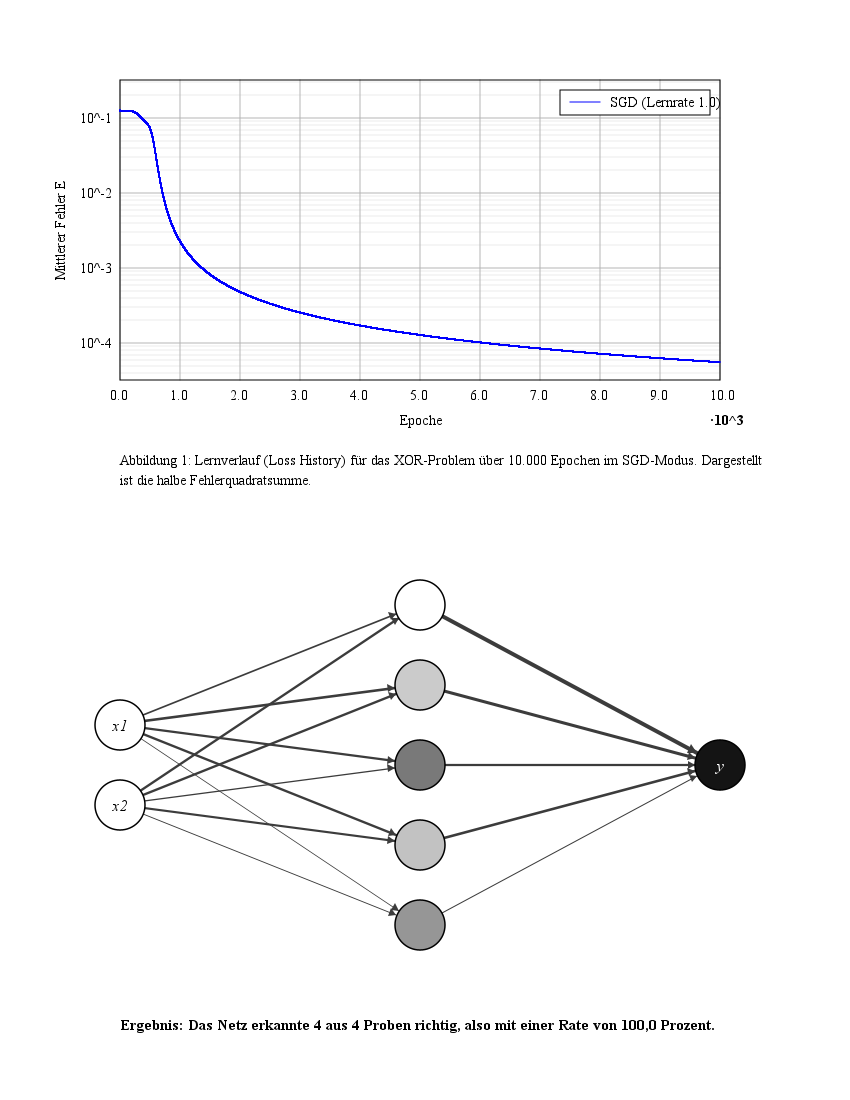
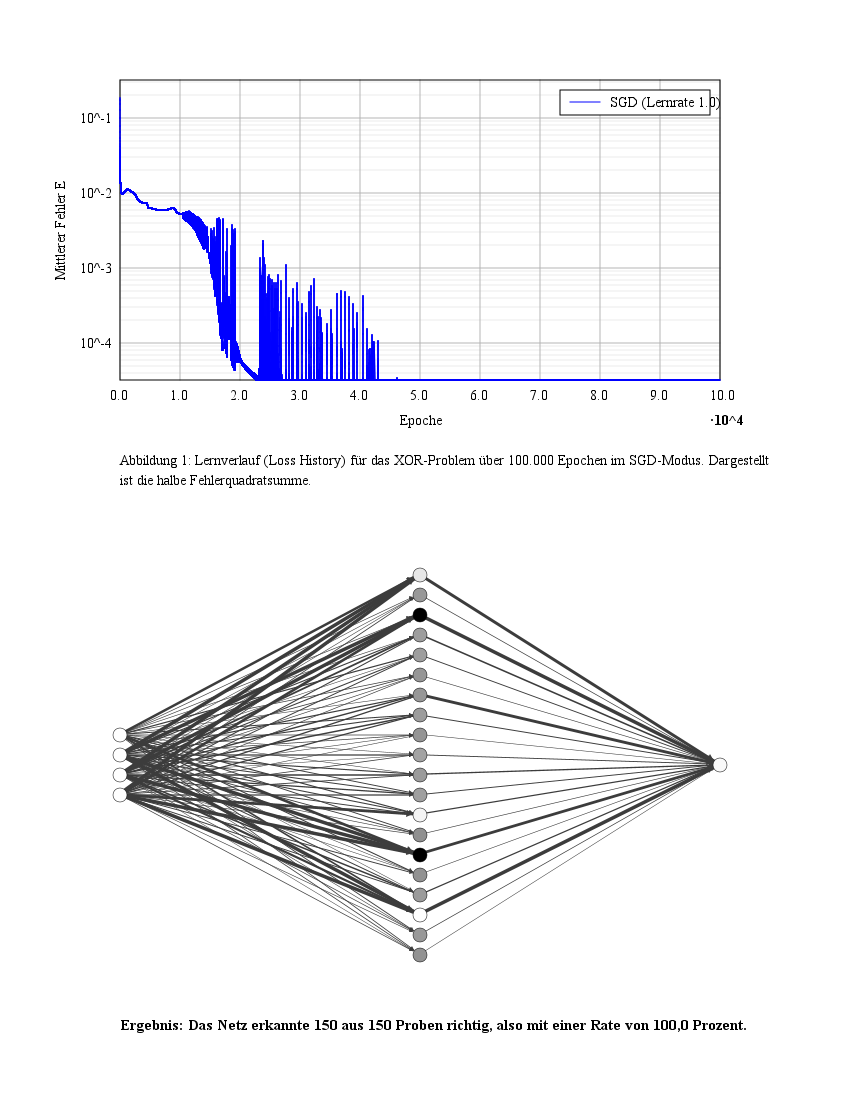
Target Mapping

diff --git a/src/main/java/NeuralNetwork/NetworkVisualizer.java b/src/main/java/NeuralNetwork/NetworkVisualizer.java
@@ -22,7 +22,6 @@ public class NetworkVisualizer {
             int correctSamples,
             int totalSamples
     ) throws IOException {
-        // Höhe leicht vergrößert, um Platz für die Bildunterschriften zu schaffen
         int width = 850;
         int height = 1100;
 
@@ -38,10 +37,10 @@ public class NetworkVisualizer {
         g.setColor(Color.WHITE);
         g.fillRect(0, 0, width, height);
 
-        // 1. Plot zeichnen (inklusive dynamischer X-Achse und Abbildungstext)
+        // 1. Plot zeichnen
         drawLossPlot(g, lossHistory, 120, 80, 600, 300, mode, learningRate, totalEpochs);
 
-        // 2. Netzwerk zeichnen (inklusive Auswertungstext unten)
+        // 2. Netzwerk zeichnen (Mit dynamischer Skalierung)
         drawNetworkGraph(g, networkLayers, weights, biases, 120, 540, 600, 450, correctSamples, totalSamples);
 
         g.dispose();
@@ -80,7 +79,7 @@ public class NetworkVisualizer {
         // --- X-Achse (Dynamisch skaliert) ---
         int maxEpoch = Math.max(1, lossHistory.size() - 1);
         int exponent = (int) Math.log10(maxEpoch);
-        double divisor = Math.pow(10, exponent); // z.B. 10.000 -> 10^4
+        double divisor = Math.pow(10, exponent);
 
         for (int i = 0; i <= 10; i++) {
             int xPos = x + (int) ((i / 10.0) * w);
@@ -88,18 +87,15 @@ public class NetworkVisualizer {
             g.drawLine(xPos, y, xPos, y + h);
             g.setColor(Color.BLACK);
 
-            // X-Achsen Beschriftung berechnen (z.B. "0.5", "1.0" oder ganze Zahlen bei < 10 Epochen)
             double tickVal = (maxEpoch * (i / 10.0)) / divisor;
             String tickLabel = (exponent > 0) ? String.format(Locale.US, "%.1f", tickVal) : String.format(Locale.US, "%.0f", tickVal);
             g.drawString(tickLabel, xPos - 10, y + h + 20);
         }
 
-        // Rahmen
         g.setColor(Color.BLACK);
         g.setStroke(new BasicStroke(1.0f));
         g.drawRect(x, y, w, h);
 
-        // Achsenbeschriftungen
         g.drawString("Epoche", x + w / 2 - 20, y + h + 45);
         if (exponent > 0) {
             g.setFont(new Font("Serif", Font.BOLD, 14));
@@ -112,7 +108,7 @@ public class NetworkVisualizer {
         g2.drawString("Mittlerer Fehler E", x - 55, y + h / 2 + 50);
         g2.dispose();
 
-        // --- Loss-Kurve zeichnen ---
+        // --- Loss-Kurve ---
         if (lossHistory != null && !lossHistory.isEmpty()) {
             g.setColor(Color.BLUE);
             g.setStroke(new BasicStroke(1.5f));
@@ -134,7 +130,6 @@ public class NetworkVisualizer {
             }
         }
 
-        // Legende
         g.setStroke(new BasicStroke(1.0f));
         g.setColor(Color.WHITE);
         g.fillRect(x + w - 160, y + 10, 150, 25);
@@ -145,11 +140,8 @@ public class NetworkVisualizer {
         g.setColor(Color.BLACK);
         g.drawString(mode.toUpperCase() + " (Lernrate " + lr + ")", x + w - 110, y + 27);
 
-        // --- BILDUNTERSCHRIFT (CAPTION) ---
-        // Locale.GERMAN formatiert 10000 automatisch zu 10.000 (mit Punkt als Tausendertrenner)
         String caption1 = String.format(Locale.GERMAN, "Abbildung 1: Lernverlauf (Loss History) für das XOR-Problem über %,d Epochen im %s-Modus. Dargestellt", totalEpochs, mode.toUpperCase());
         String caption2 = "ist die halbe Fehlerquadratsumme.";
-
         g.drawString(caption1, x, y + h + 85);
         g.drawString(caption2, x, y + h + 105);
     }
@@ -157,21 +149,33 @@ public class NetworkVisualizer {
     private static void drawNetworkGraph(Graphics2D g, int[] layers, double[][][] weights, double[][] biases, int x, int y, int w, int h, int correctSamples, int totalSamples) {
         int numLayers = layers.length;
         int layerSpacing = w / (numLayers - 1);
-        int radius = 25;
+
+        // --- DYNAMISCHE SKALIERUNG ---
+        // 1. Größte Schicht ermitteln
+        int maxNodes = 0;
+        for (int count : layers) {
+            maxNodes = Math.max(maxNodes, count);
+        }
+
+        // 2. Maximaler vertikaler Abstand (capped bei 80px)
+        int vGap = Math.min(80, (h - 40) / maxNodes);
+
+        // 3. Radius der Neuronen abhängig vom Platz berechnen (min 4px, max 25px)
+        int radius = Math.max(4, Math.min(25, (int)(vGap * 0.35)));
 
         Point[][] nodePositions = new Point[numLayers][];
-
         int centerY = y + h / 2;
+
         for (int l = 0; l < numLayers; l++) {
             int numNodes = layers[l];
             nodePositions[l] = new Point[numNodes];
-            int vGap = 80;
             int startY = centerY - (numNodes - 1) * vGap / 2;
             for (int n = 0; n < numNodes; n++) {
                 nodePositions[l][n] = new Point(x + l * layerSpacing, startY + n * vGap);
             }
         }
 
+        // --- VERBINDUNGEN (Pfeile) ---
         g.setColor(new Color(60, 60, 60));
         for (int l = 0; l < numLayers - 1; l++) {
             for (int i = 0; i < layers[l]; i++) {
@@ -183,13 +187,18 @@ public class NetworkVisualizer {
                     if (weights != null && weights.length > l && weights[l].length > i && weights[l][i].length > j) {
                         thickness = 0.5f + (float) Math.abs(weights[l][i][j]) * 0.35f;
                     }
-                    thickness = Math.max(0.5f, Math.min(6.0f, thickness));
+                    // Deckelung der Liniendicke: Darf nicht dicker als die halbe Neuronengröße werden
+                    thickness = Math.max(0.5f, Math.min(radius * 0.5f, Math.min(6.0f, thickness)));
                     drawArrow(g, p1.x, p1.y, p2.x, p2.y, radius, thickness);
                 }
             }
         }
 
-        g.setFont(new Font("Serif", Font.ITALIC, 16));
+        // --- NEURONEN (Kreise) ---
+        // Die Schriftgröße schrumpft dynamisch mit dem Radius mit
+        int fontSize = Math.max(9, (int)(radius * 0.65));
+        g.setFont(new Font("Serif", Font.ITALIC, fontSize));
+
         for (int l = 0; l < numLayers; l++) {
             for (int n = 0; n < layers[l]; n++) {
                 Point p = nodePositions[l][n];
@@ -209,28 +218,31 @@ public class NetworkVisualizer {
                 g.fillOval(p.x - radius, p.y - radius, 2 * radius, 2 * radius);
 
                 g.setColor(Color.BLACK);
-                g.setStroke(new BasicStroke(1.5f));
+                // Rahmendicke skaliert minimal mit dem Radius
+                g.setStroke(new BasicStroke(Math.max(0.5f, radius * 0.05f)));
                 g.drawOval(p.x - radius, p.y - radius, 2 * radius, 2 * radius);
 
-                g.setColor(percentBlack > 50 ? Color.WHITE : Color.BLACK);
+                // Beschriftung nur einfügen, wenn die Kreise groß genug sind (Radius >= 10)
+                if (radius >= 10) {
+                    g.setColor(percentBlack > 50 ? Color.WHITE : Color.BLACK);
 
-                FontMetrics fm = g.getFontMetrics();
-                String label = "";
-                if (l == 0) label = "x" + (n + 1);
-                else if (l == numLayers - 1) label = "y" + (layers[l] > 1 ? String.valueOf(n + 1) : "");
+                    FontMetrics fm = g.getFontMetrics();
+                    String label = "";
+                    if (l == 0) label = "x" + (n + 1);
+                    else if (l == numLayers - 1) label = "y" + (layers[l] > 1 ? String.valueOf(n + 1) : "");
 
-                int textX = p.x - fm.stringWidth(label) / 2;
-                int textY = p.y + fm.getAscent() / 2 - 2;
-                g.drawString(label, textX, textY);
+                    int textX = p.x - fm.stringWidth(label) / 2;
+                    int textY = p.y + fm.getAscent() / 2 - 2;
+                    g.drawString(label, textX, textY);
+                }
             }
         }
 
-        // --- ERGEBNIS-TEXT UNTER DEM NETZWERK ---
+        // --- ERGEBNIS-TEXT ---
         g.setFont(new Font("Serif", Font.BOLD, 15));
         g.setColor(Color.BLACK);
         double rate = ((double) correctSamples / totalSamples) * 100.0;
         String accString = String.format(Locale.GERMAN, "Ergebnis: Das Netz erkannte %d aus %d Proben richtig, also mit einer Rate von %.1f Prozent.", correctSamples, totalSamples, rate);
-
         g.drawString(accString, x, y + h + 40);
     }
 
@@ -248,7 +260,8 @@ public class NetworkVisualizer {
         g.drawLine(sx, sy, ex, ey);
 
         double angle = Math.atan2(dy, dx);
-        int arrowSize = Math.max(8, (int) (thickness * 2.5));
+        // Die Pfeilspitze skaliert jetzt auch dynamisch, um bei Mini-Kreisen nicht absurd groß zu wirken
+        int arrowSize = Math.max(4, Math.min(radius, (int) (thickness * 2.5)));
 
         Polygon head = new Polygon();
         head.addPoint(ex, ey);

diff --git a/src/main/java/NeuralNetwork/App.java b/src/main/java/NeuralNetwork/App.java
@@ -56,7 +56,7 @@ public class App {
     public static void main(String[] args) {
 
         // Nur debugging
-        args = new String[]{"data/xor.csv", "sgd", "10000", "1-1", "5"};
+        args = new String[]{"data/data_iris_modified.csv", "sgd", "100000", "4-4", "20"};
         //args = new String[]{"data/data_iris_modified.csv", "sgd", "10000", "4-4", "50"};
 
         try {
@@ -83,24 +83,44 @@ public class App {
         double momentum = mode.equals("sgd") ? 0.0 : 0.9;
         LearningRateScheduler scheduler = new LearningRateScheduler(200, 0.5, 0.01, 0.00001);
 
+        // --- NEU: Min/Max der Zielwerte (Targets) für die Skalierung ermitteln ---
+        double[] targetMins = new double[outputneuronen];
+        double[] targetMaxes = new double[outputneuronen];
+        Arrays.fill(targetMins, Double.POSITIVE_INFINITY);
+        Arrays.fill(targetMaxes, Double.NEGATIVE_INFINITY);
+
+        for (double[] row : data) {
+            double[] t = extractTargets(row, indexausgabewerte, outputneuronen);
+            for (int k = 0; k < outputneuronen; k++) {
+                if (t[k] < targetMins[k]) targetMins[k] = t[k];
+                if (t[k] > targetMaxes[k]) targetMaxes[k] = t[k];
+            }
+        }
+
         System.out.printf("Muster: %d | Netz: %d-%d-%d | Seed: 42%n", data.length, inputneuronen, neuronenhiddenlayer, outputneuronen);
         System.out.printf("Modus: %s | Momentum: %.1f | Epochen: %d%n", mode, momentum, epochs);
-        System.out.printf(Locale.ROOT, "Mittlerer Fehler E vor Training: %.6f%n", meanLoss(net, data, indexausgabewerte, inputneuronen, outputneuronen));
+        System.out.printf(Locale.ROOT, "Mittlerer Fehler E vor Training: %.6f%n",
+                meanLoss(net, data, indexausgabewerte, inputneuronen, outputneuronen, targetMins, targetMaxes));
 
         List<Double> lossHistory = new ArrayList<>();
         for (int epoch = 1; epoch <= epochs; epoch++) {
-            // Online-Lernen: ein Update pro Datenzeile
+            // Online-Lernen
             for (double[] row : data) {
                 double[] inputs = extractInputs(row, indexausgabewerte, inputneuronen);
                 double[] targets = extractTargets(row, indexausgabewerte, outputneuronen);
+
+                // Zielwerte für das Netz auf [0, 1] herunterskalieren
+                for (int k = 0; k < outputneuronen; k++) {
+                    targets[k] = scale(targets[k], targetMins[k], targetMaxes[k]);
+                }
 
                 net.feedForward(inputs);
                 net.train(learningRate, targets, momentum);
             }
 
-            // Alle Muster erneut auswerten: einheitlicher Gewichtsstand für den Epochenfehler.
-            double loss = meanLoss(net, data, indexausgabewerte, inputneuronen, outputneuronen);
+            double loss = meanLoss(net, data, indexausgabewerte, inputneuronen, outputneuronen, targetMins, targetMaxes);
             lossHistory.add(loss);
+
             if (!Double.isFinite(loss)) {
                 throw new IllegalArgumentException("Training instabil. Eingaben auf einen kleinen Wertebereich skalieren.");
             }
@@ -120,15 +140,22 @@ public class App {
         int correct = 0;
         for (double[] row : data) {
             double[] inputs = extractInputs(row, indexausgabewerte, inputneuronen);
-            double[] targets = extractTargets(row, indexausgabewerte, outputneuronen);
+            double[] originalTargets = extractTargets(row, indexausgabewerte, outputneuronen);
 
-            double[] outputs = net.feedForward(inputs);
+            // Netz gibt skalierte Werte zwischen 0 und 1 zurück
+            double[] rawOutputs = net.feedForward(inputs);
+            double[] finalOutputs = new double[outputneuronen];
 
-            // Auswertung (Beispielhaft für 1 Output-Neuron mit Threshold 0.5)
             boolean isCorrect = true;
             for (int k = 0; k < outputneuronen; k++) {
-                int predicted = outputs[k] >= 0.5 ? 1 : 0;
-                if (predicted != (int) targets[k]) {
+                // Ausgabe wieder in den echten Wertebereich hochskalieren
+                finalOutputs[k] = unscale(rawOutputs[k], targetMins[k], targetMaxes[k]);
+
+                // Für Klassifikations-Trefferquote: Auf nächste Ganzzahl runden
+                long predictedClass = Math.round(finalOutputs[k]);
+                long actualClass = Math.round(originalTargets[k]);
+
+                if (predictedClass != actualClass) {
                     isCorrect = false;
                 }
             }
@@ -136,24 +163,18 @@ public class App {
                 correct++;
             }
 
+            // Ausgaben runden für hübschere Konsolen-Anzeige
             System.out.printf(Locale.ROOT, "%s -> %s | Ziel: %s%n",
-                    Arrays.toString(inputs), Arrays.toString(outputs), Arrays.toString(targets));
+                    Arrays.toString(inputs), Arrays.toString(finalOutputs), Arrays.toString(originalTargets));
         }
         System.out.printf("Korrekt auf den Trainingsmustern: %d/%d%n", correct, data.length);
 
         double[][][] finalWeights = net.getWeights();
         double[][] finalBiases = net.getBiases();
         NetworkVisualizer.saveVisualization(
-                "grafik_auswertung.png",
-                lossHistory,
+                "grafik_auswertung.png", lossHistory,
                 new int[]{inputneuronen, neuronenhiddenlayer, outputneuronen},
-                finalWeights,
-                finalBiases,
-                mode,
-                learningRate,
-                epochs,       // Die tatsächliche Anzahl der Epochen
-                correct,      // Wie viele Muster korrekt geraten wurden
-                data.length   // Wie viele Muster es insgesamt gab
+                finalWeights, finalBiases, mode, learningRate, epochs, correct, data.length
         );
     }
 
@@ -234,16 +255,33 @@ public class App {
         return rows.toArray(new double[0][]);
     }
 
-    private static double meanLoss(FFNeuralNetwork net, double[][] data, int[] indexausgabewerte, int inputneuronen, int outputneuronen) {
+    private static double meanLoss(FFNeuralNetwork net, double[][] data, int[] indexausgabewerte, int inputneuronen, int outputneuronen, double[] targetMins, double[] targetMaxes) {
         double total = 0.0;
         for (double[] row : data) {
             double[] inputs = extractInputs(row, indexausgabewerte, inputneuronen);
             double[] targets = extractTargets(row, indexausgabewerte, outputneuronen);
 
+            // Ziele für die Fehlerberechnung auf [0, 1] skalieren
+            for (int k = 0; k < outputneuronen; k++) {
+                targets[k] = scale(targets[k], targetMins[k], targetMaxes[k]);
+            }
+
             total += CostFunction.HalfSquaredError.calculate(
                     net.feedForward(inputs), targets);
         }
         return total / data.length;
+    }
+
+    // --- NEU: Hilfsmethoden zur Normalisierung ---
+
+    private static double scale(double val, double min, double max) {
+        if (min == max) return 0.5; // Verhindert Division durch Null bei konstanten Zielwerten
+        return (val - min) / (max - min);
+    }
+
+    private static double unscale(double val, double min, double max) {
+        if (min == max) return min;
+        return val * (max - min) + min;
     }
 
 
